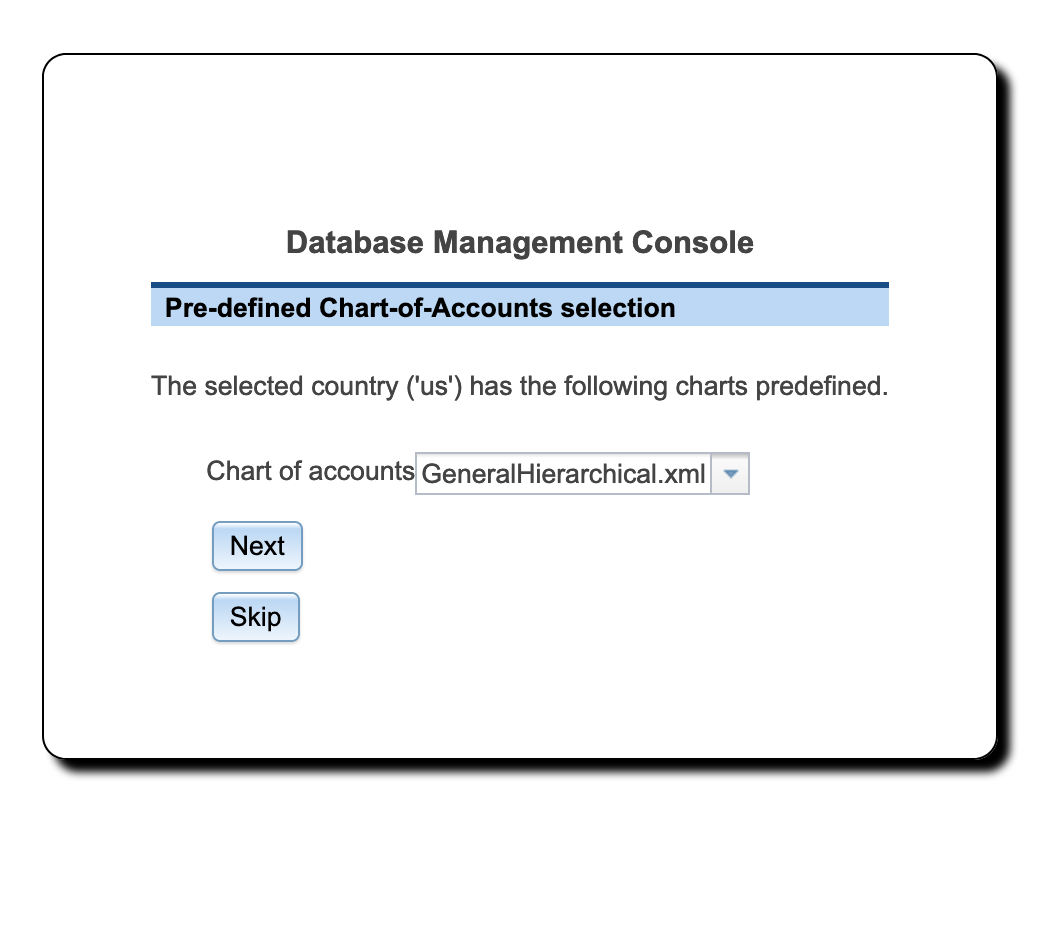
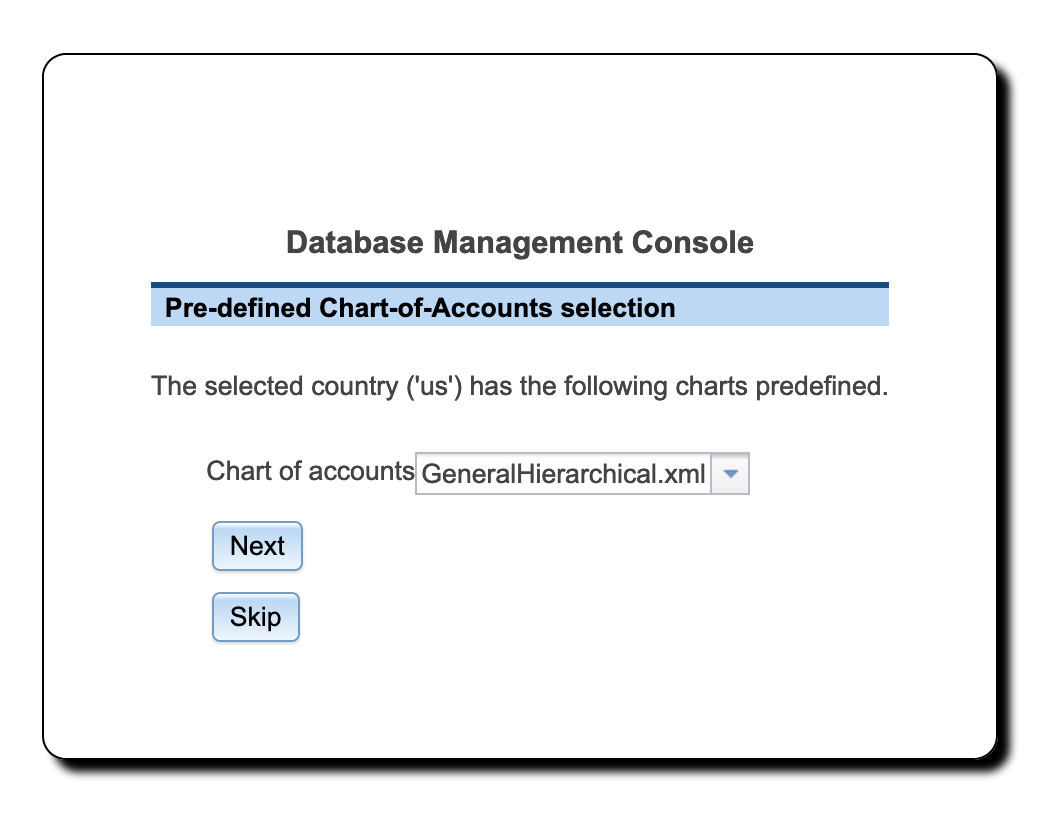
Finish up code for retrieving screenshots.

diff --git a/part-getting-started.tex b/part-getting-started.tex
@@ -70,11 +70,11 @@ Jack installed LedgerSMB using the default installation instructions, which mean
 the url for his \texttt{setup.pl} is \url{https://example.com/setup.pl}.
 \figref{fig:setup-step1} shows the login screen for the tool.
 
-\begin{quotation}
+\begin{quote}
 Please note that in version 1.7 and earlier you can't be logged into the administration tool
 (\texttt{setup.pl}) and the webapp through the same browser at the same time due to limitations of the
 implementation.\index{setup.pl}
-\end{quotation}
+\end{quote}
 
 The login screen shows three fields: (a) a user, (b) a password and (c) a database name.
 
@@ -100,7 +100,9 @@ The ``Create'' button is used to create a new company.
 \begin{figure}[H]
 \centering
 % \includegraphics[width=0.8\textwidth]{dmc-create-step1.png}
-\includegraphics[width=\graphicswidth,  trim={0pt 50 0 0}, clip]{\autoscreenshotdir/setup-pl-login.png}
+% HTML processing does not handle cropping of this image, need to figure out why?
+% \includegraphics[width=\graphicswidth,  trim={0pt 50 0 0}, clip]{\autoscreenshotdir/setup-pl-login.png}
+\includegraphics[width=\graphicswidth]{\autoscreenshotdir/setup-pl-login.png}
 \caption{setup.pl login screen}
 \label{fig:setup-step1}
 \end{figure}
@@ -133,7 +135,9 @@ After the delay the screen from \figref{fig:setup-step2} shows up.
 \begin{figure}[H]
 \centering
 %\includegraphics[width=0.8\textwidth]{dmc-create-step2.png}
-\includegraphics[width=\graphicswidth,  trim={0pt 600 0 150}, clip]{\autoscreenshotdir/setup-pl-select-coa-country.png}
+% HTML processing does not handle cropping of this image, need to figure out why?
+%\includegraphics[width=\graphicswidth,  trim={0pt 600 0 150}, clip]{\autoscreenshotdir/setup-pl-select-coa-country.png}
+\includegraphics[width=\graphicswidth]{\autoscreenshotdir/setup-pl-select-coa-country.png}
 \caption{Chart of accounts - country selection}
 \label{fig:setup-step2}
 \end{figure}
@@ -163,7 +167,9 @@ As Jack runs his company in the United States, that's what he selects.
 \begin{figure}[H]
 \centering
 %\includegraphics[width=0.8\textwidth]{dmc-create-step3.png}
-\includegraphics[width=\graphicswidth,  trim={0pt 150 0 0}, clip]{\autoscreenshotdir/setup-pl-select-coa.png}
+% HTML processing does not handle cropping of this image, need to figure out why?
+%\includegraphics[width=\graphicswidth,  trim={0pt 150 0 0}, clip]{\autoscreenshotdir/setup-pl-select-coa.png}
+\includegraphics[width=\graphicswidth]{\autoscreenshotdir/setup-pl-select-coa.png}
 \caption{Chart of accounts - selection}
 \label{fig:setup-step3}
 \end{figure}
@@ -188,7 +194,9 @@ Jack is now presented with the screen to load templates. LedgerSMB \ledgerSMBver
 \begin{figure}[H]
     \centering
     %\includegraphics[width=0.8\textwidth]{dmc-create-step4.png}
-    \includegraphics[width=\graphicswidth,  trim={0pt 50 0 0}, clip]{\autoscreenshotdir/setup-pl-load-templates.png}
+    % HTML processing does not handle cropping of this image, need to figure out why?
+    %\includegraphics[width=\graphicswidth,  trim={0pt 50 0 0}, clip]{\autoscreenshotdir/setup-pl-load-templates.png}
+    \includegraphics[width=\graphicswidth]{\autoscreenshotdir/setup-pl-load-templates.png}
     \caption{Template selection}
     \label{fig:setup-step4}
 \end{figure}
@@ -219,11 +227,11 @@ Note that none of the fields in this screen are optional. If the name of the use
 isn't already used with other companies, leave the \texttt{Import} option set to \texttt{No},
 otherwise please read the chapter on user creation mentioned above.
 
-\begin{quotation}
+\begin{quote}
 Note: The password\index{password} you enter here is a temporary one which will remain in effect
 \textbf{for 24 hours only}. Be sure to execute the steps in \secref{sec-first-login-ramp-up} before
 these 24 hours elapse, because the user will be disabled after that.
-\end{quotation}
+\end{quote}
 
 Jack proceeds to enter the values as follows:
 \begin{longtable}{ llp{6cm} }
@@ -350,7 +358,9 @@ Not clicking the \texttt{Save} button means the password remains unchanged and t
 \begin{figure}[H]
 \centering
 %\includegraphics[width=7cm]{user-password.png}
-\includegraphics[width=\graphicswidth, trim={3pt 300 2 4}, clip]{\autoscreenshotdir/preferences-password.png}
+% HTML processing does not handle cropping of this image, need to figure out why?
+%\includegraphics[width=\graphicswidth, trim={3pt 300 2 4}, clip]{\autoscreenshotdir/preferences-password.png}
+\includegraphics[width=\graphicswidth]{\autoscreenshotdir/preferences-password.png}
 \caption{Password change screen}
 \label{fig:first-user-password}
 \end{figure}
@@ -748,11 +758,11 @@ in \figref{fig:rfq-entry-screen}) for entering a new \gls{rfq} .
 \label{fig:bus-rfq-entry-screen}
 \end{figure}
 
-\begin{quotation}
+\begin{quote}
 \textbf{Remark} Note that the \gls{rfq} entry screen contains prices; this is misleading
 at least: the printed output to be sent to the vendor does not. The fact that this screen
 allows entry of prices could be considered a bug.
-\end{quotation}
+\end{quote}
 
 After filling out the form in accordance with the description in \secref{sec-business-processes-quotations-creation},
 Jack expedites his \gls{rfq} to his vendor through e-mail by clicking the ``E-mail'' button. He finds

diff --git a/part-processes.tex b/part-processes.tex
@@ -137,11 +137,11 @@ Generally the only difference between creating a \gls{customer} account and a \g
 \label{fig:rfq-entry-screen}
 \end{figure}
 
-\begin{quotation}
+\begin{quote}
 \textbf{Remark} Note that the \gls{rfq} entry screen contains prices; this is misleading
 at least: the printed output to be sent to the vendor does not. The fact that this screen
 allows entry of prices could be considered a bug.
-\end{quotation}
+\end{quote}
 
 The listing below describes the meaning of the per \gls{rfq} fields presented in the screen.
 
@@ -447,12 +447,12 @@ To undo the effects of an invoice, i.e. to reduce the amount outstanding with a
 This creates a new invoice by the same number as the original, except that the new
 invoice has a suffix \texttt{-VOID}.
 
-\begin{quotation}
+\begin{quote}
 Unfortunately, in LedgerSMB 1.3 - the earlier versions - voiding an invoice did not
 automatically close the original and voiding invoices.  To close both invoices from
 the open invoice overview, use the cash receipt process as described in
 \secref{sec-business-processes-payment-processing-single-payments} to make a zero amount payment.
-\end{quotation}
+\end{quote}
 
 \section{Correcting and deleting invoices}
 \label{sec-business-processes-invoicing-correction-or-deletion}
@@ -668,12 +668,12 @@ after the invoice has been posted.
 
 In order to save any edits to that field, hit the ``Save Info'' button.
 
-\begin{quotation}
+\begin{quote}
 Note that the ``Save Info'' button also saves any changes to the ``TaxForm'' column or
 rather, any information that's not accounting information (posted to the books and
 thereby fixed) nor information which appears on the invoice - which also should remain
 unedited in order to be able to generate an exact copy at a later date.
-\end{quotation}
+\end{quote}
 
 
 \subsection{Special treatment of invoices}
@@ -726,11 +726,11 @@ To record an amount received from a \gls{customer} as an invoice payment, go thr
 the payment has been received. After clicking ``Continue'' the application lists all matching
 customers.
 
-\begin{quotation}
+\begin{quote}
 \textbf{Remark} The customers listed may not have open invoices. The list only serves to select
 the \gls{customer} the user is looking for. To find customers with outstanding balances, please refer to
 \secref{subsec-business-processes-credit-risk-monitoring-arrears}.
-\end{quotation}
+\end{quote}
 
 After selecting a \gls{customer}, the cash entry screen as depicted in <figure reference> is shown. This
 screen looks the same for single receipts or payments. This screen consists of three parts. The upper
@@ -813,11 +813,11 @@ be reversed: doing so, would result in the reversed amount ending up in the AR s
 a dummy company isn't an option, because over payments are registered to a specific \gls{customer}.  An
 over payment can only be used to clear open items on that specific \gls{customer}.
 
-\begin{quotation}
+\begin{quote}
 Note that the above procedure applies to an AR over payment. However, the same steps apply to
 AP over payments, replacing ``customer'' with ``vendor'', ``AR'' with ``AP'', ``Income'' with
 ``Expense'' and ``debit'' with ``credit''.
-\end{quotation}
+\end{quote}
 
 \section{Receipts and payments in foreign currencies}
 \label{sec-business-processes-payment-processing-fx-payments}
@@ -923,7 +923,7 @@ date will be disallowed.
 
 % @@@ screenshot
 
-\begin{quotation}
+\begin{quote}
 Note that due to a design limitation in LedgerSMB 1.3 - to be lifted with the
 general AR/AP redesign - invoices in foreign currencies can't be reversed on
 other dates than their original posting date. That is: they can, but their
@@ -934,7 +934,7 @@ functionality may have negative side effects in some set ups.
 Also note that this pertains exclusively to invoices and transactions in foreign
 currencies and has no effect in case of invoices and transactions in the default
 currency.
-\end{quotation}
+\end{quote}
 
 \section{Year-end processing}
 \label{sec-business-processes-accounting-year-end-processing}

diff --git a/part-administration.tex b/part-administration.tex
@@ -210,11 +210,11 @@ top level menu. See \figref{fig:user-preferences}.
 From the ``User search'' result screen, users can be ``deleted'' from the company:
 they have their access to the current company revoked.
 
-\begin{quotation}
+\begin{quote}
 Note that the user is only revoked access to the current company; the login remains a valid
 login for the database cluster. Administrators wanting to remove user accounts at the database
 level need to take additional action.
-\end{quotation}
+\end{quote}
 
 
 \section{User imports}
@@ -661,13 +661,13 @@ the taxes collected by the national authority, which works like this numerically
 National tax with order 0 and rate 10\% and Quebec tax with order 1 and rate 5\%
 applied to a 10\$ amount charges 1\$ of national tax and 0.55\$ of Quebec tax (5\% of 11\$).
 
-\begin{quotation}
+\begin{quote}
 Note that - as pointed out in the Overview section of this chapter - the \gls{customer} related
 tax calculation on invoices is triggered by the settings in this chapter as well as
 the customer/vendor settings described in \secref{sec-business-processes-creating-customers-and-vendors}
 and part settings and service settings described in \secref{subsubsec-products-parts-taxation} and
 \secref{subsec-products-services-taxation} respectively.
-\end{quotation}
+\end{quote}
 
 \section{Tax calculation examples}
 \label{sec-tax-calculation-examples}
@@ -718,12 +718,12 @@ tax forms, the ``Tax form'' check mark can be used in invoices to include
 (or exclude) invoice lines from the tax form. See \secref{subsec-business-processes-invoicing-manual-entry-invoices}
 for entry of invoices.
 
-\begin{quotation}
+\begin{quote}
 Note that there's a module available for 1.3 which implements accrual based tax reporting by
 the name of EU VAT reporting. This module replaces the default tax reporting functionality
 meaning one can only have accrual based or cash based reports in a single company at this time,
 but not both.
-\end{quotation}
+\end{quote}
 
 \subsection{Creating tax forms}
 \label{subsec-tax-taxforms-creation}
@@ -803,10 +803,10 @@ There's another thing with LedgerSMB that helps auditability: transactions can't
 \subsection{Restore}
 \label{subsec-contingency-restore}
 
-\begin{quotation}
+\begin{quote}
 Note that if the database being restored is a backup from a different (earlier) PostgreSQL version,
 additional steps described in \appref{sec-migration-postrgesql} will be required.
-\end{quotation}
+\end{quote}
 
 
 

diff --git a/part-configuration.tex b/part-configuration.tex
@@ -284,12 +284,12 @@ requesting the user to change the password.
 The application behaves this way because users with expired passwords won't be able to log in:
 their password will need to be reset by a user admin.
 
-\begin{quotation}
+\begin{quote}
 Note that passwords set by admins for other users expire within 24 hours after setting them.
 This value is hard coded and can't be overruled. This is a security measure taken to make
 sure as few unused accounts as possible exist: Existence of such accounts could open up security
 holes.
-\end{quotation}
+\end{quote}
 
 
 \subsubsection{Default E-mail addresses}

diff --git a/ledgersmb-book.tex b/ledgersmb-book.tex
@@ -20,6 +20,10 @@
  
 \documentclass[10pt,a4paper]{book}
 
+% Use block style paragraphs, not initial indent
+\setlength{\parindent}{0pt}
+\setlength{\parskip}{6pt}
+
 \usepackage{lmodern}
 \usepackage{url, palatino, color}
 % \usepackage[colorlinks, linkcolor=black, urlcolor=black]{hyperref}
